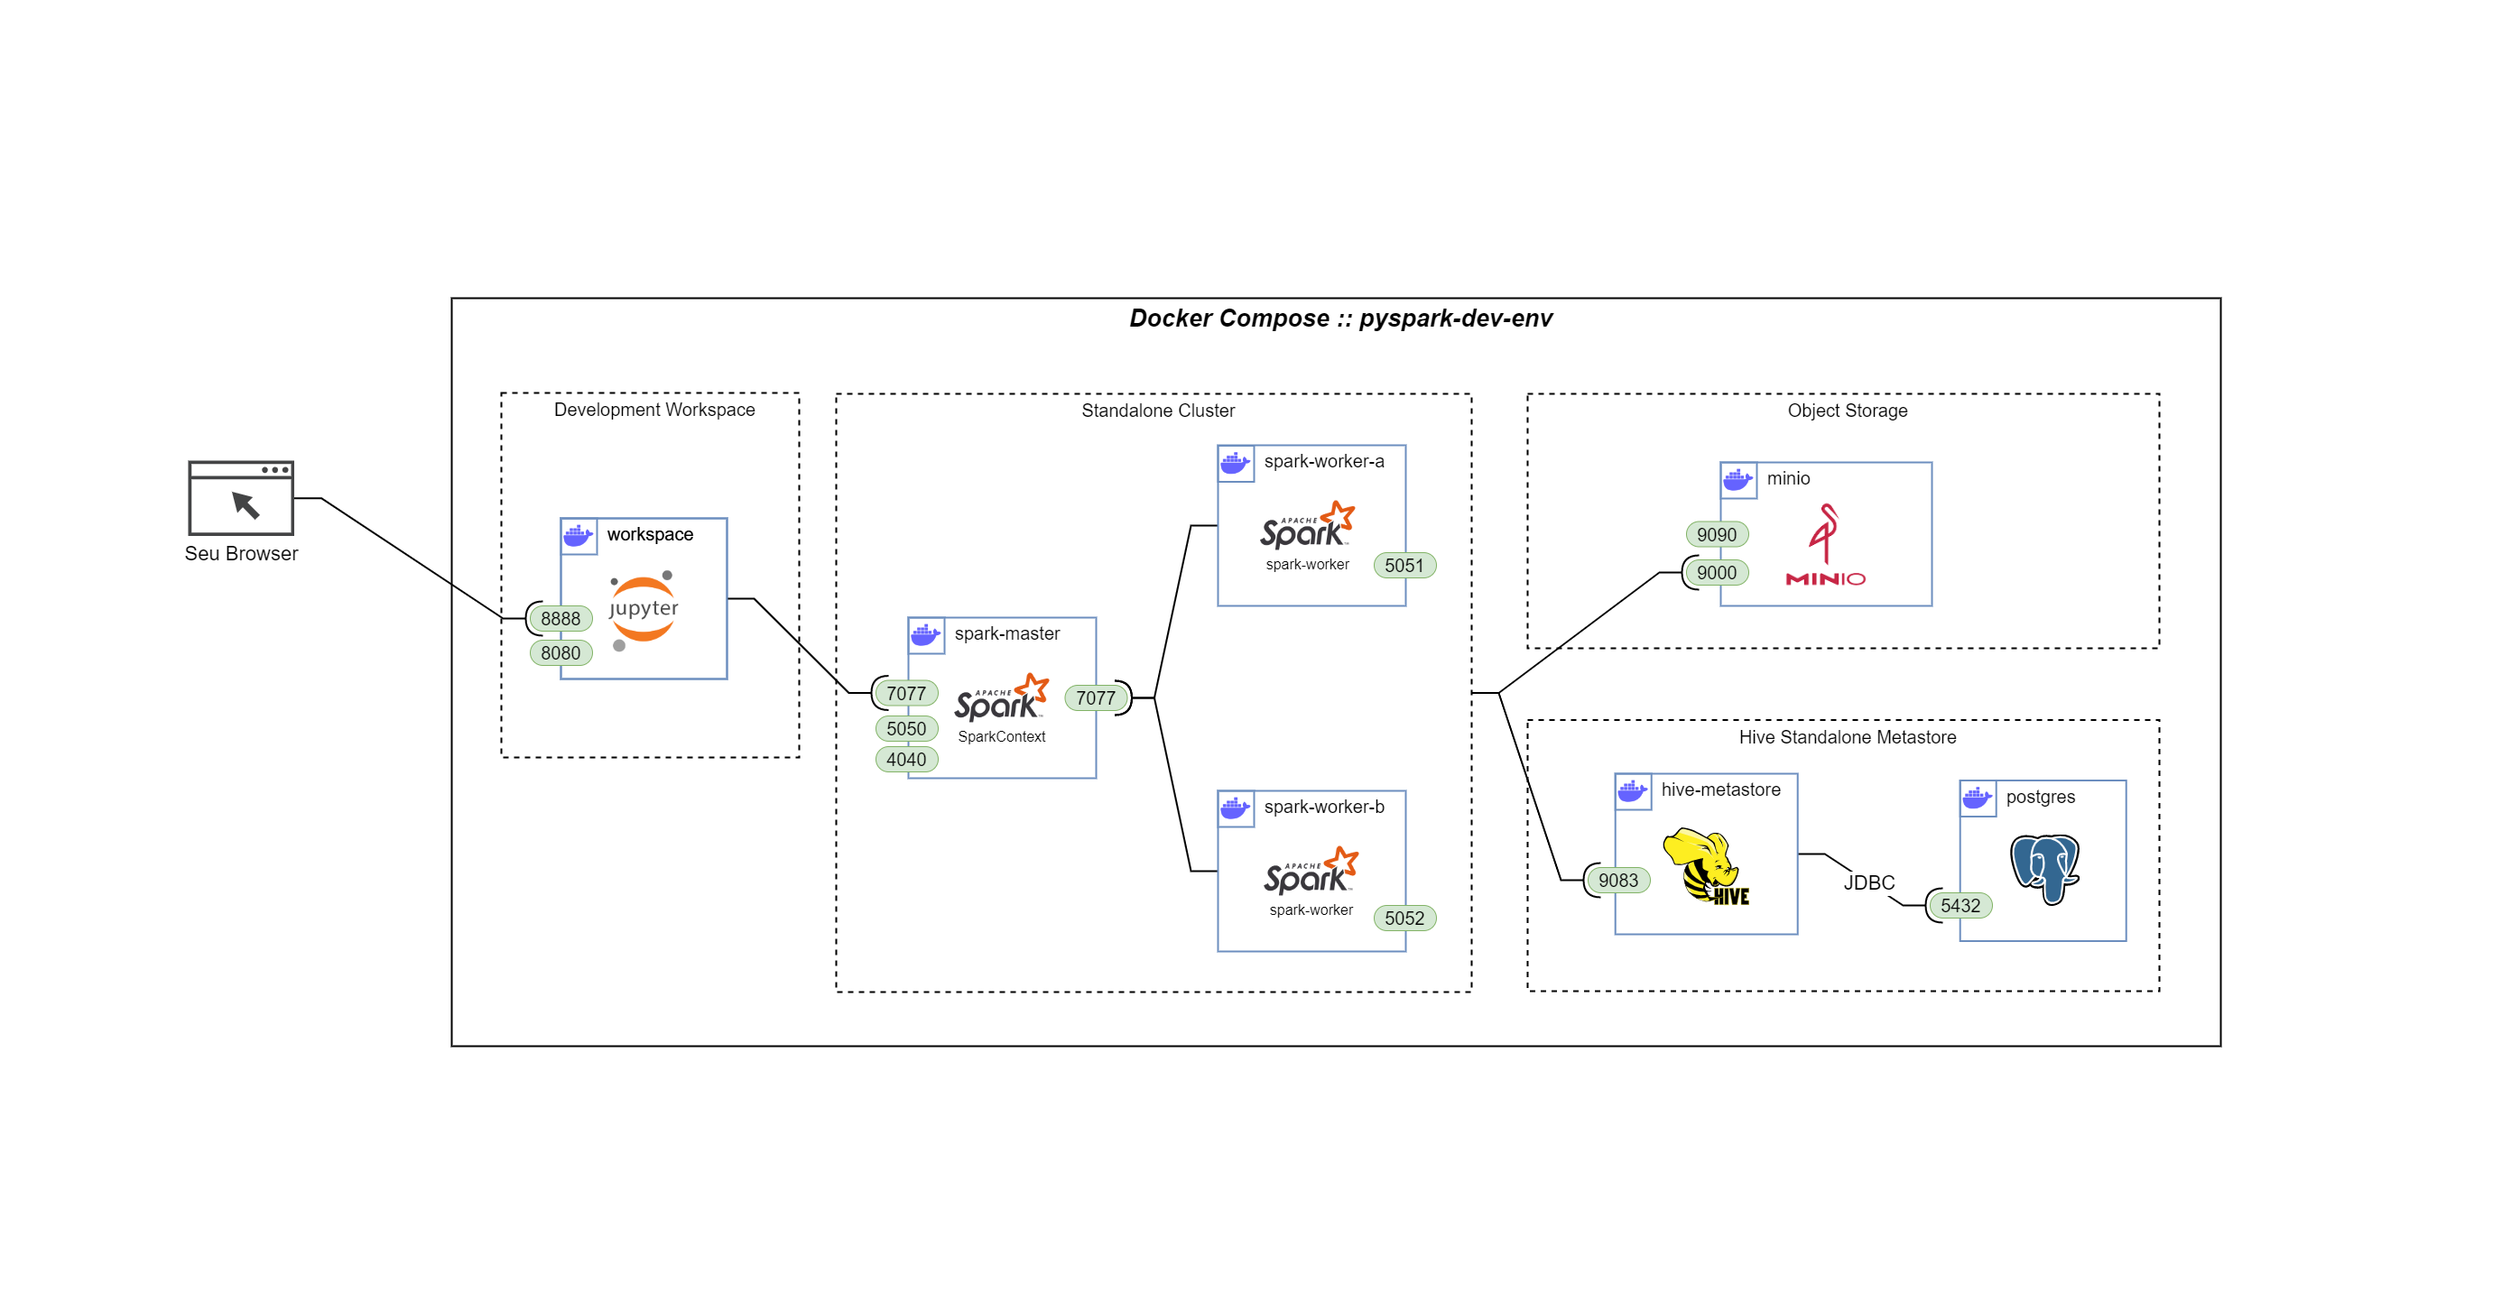
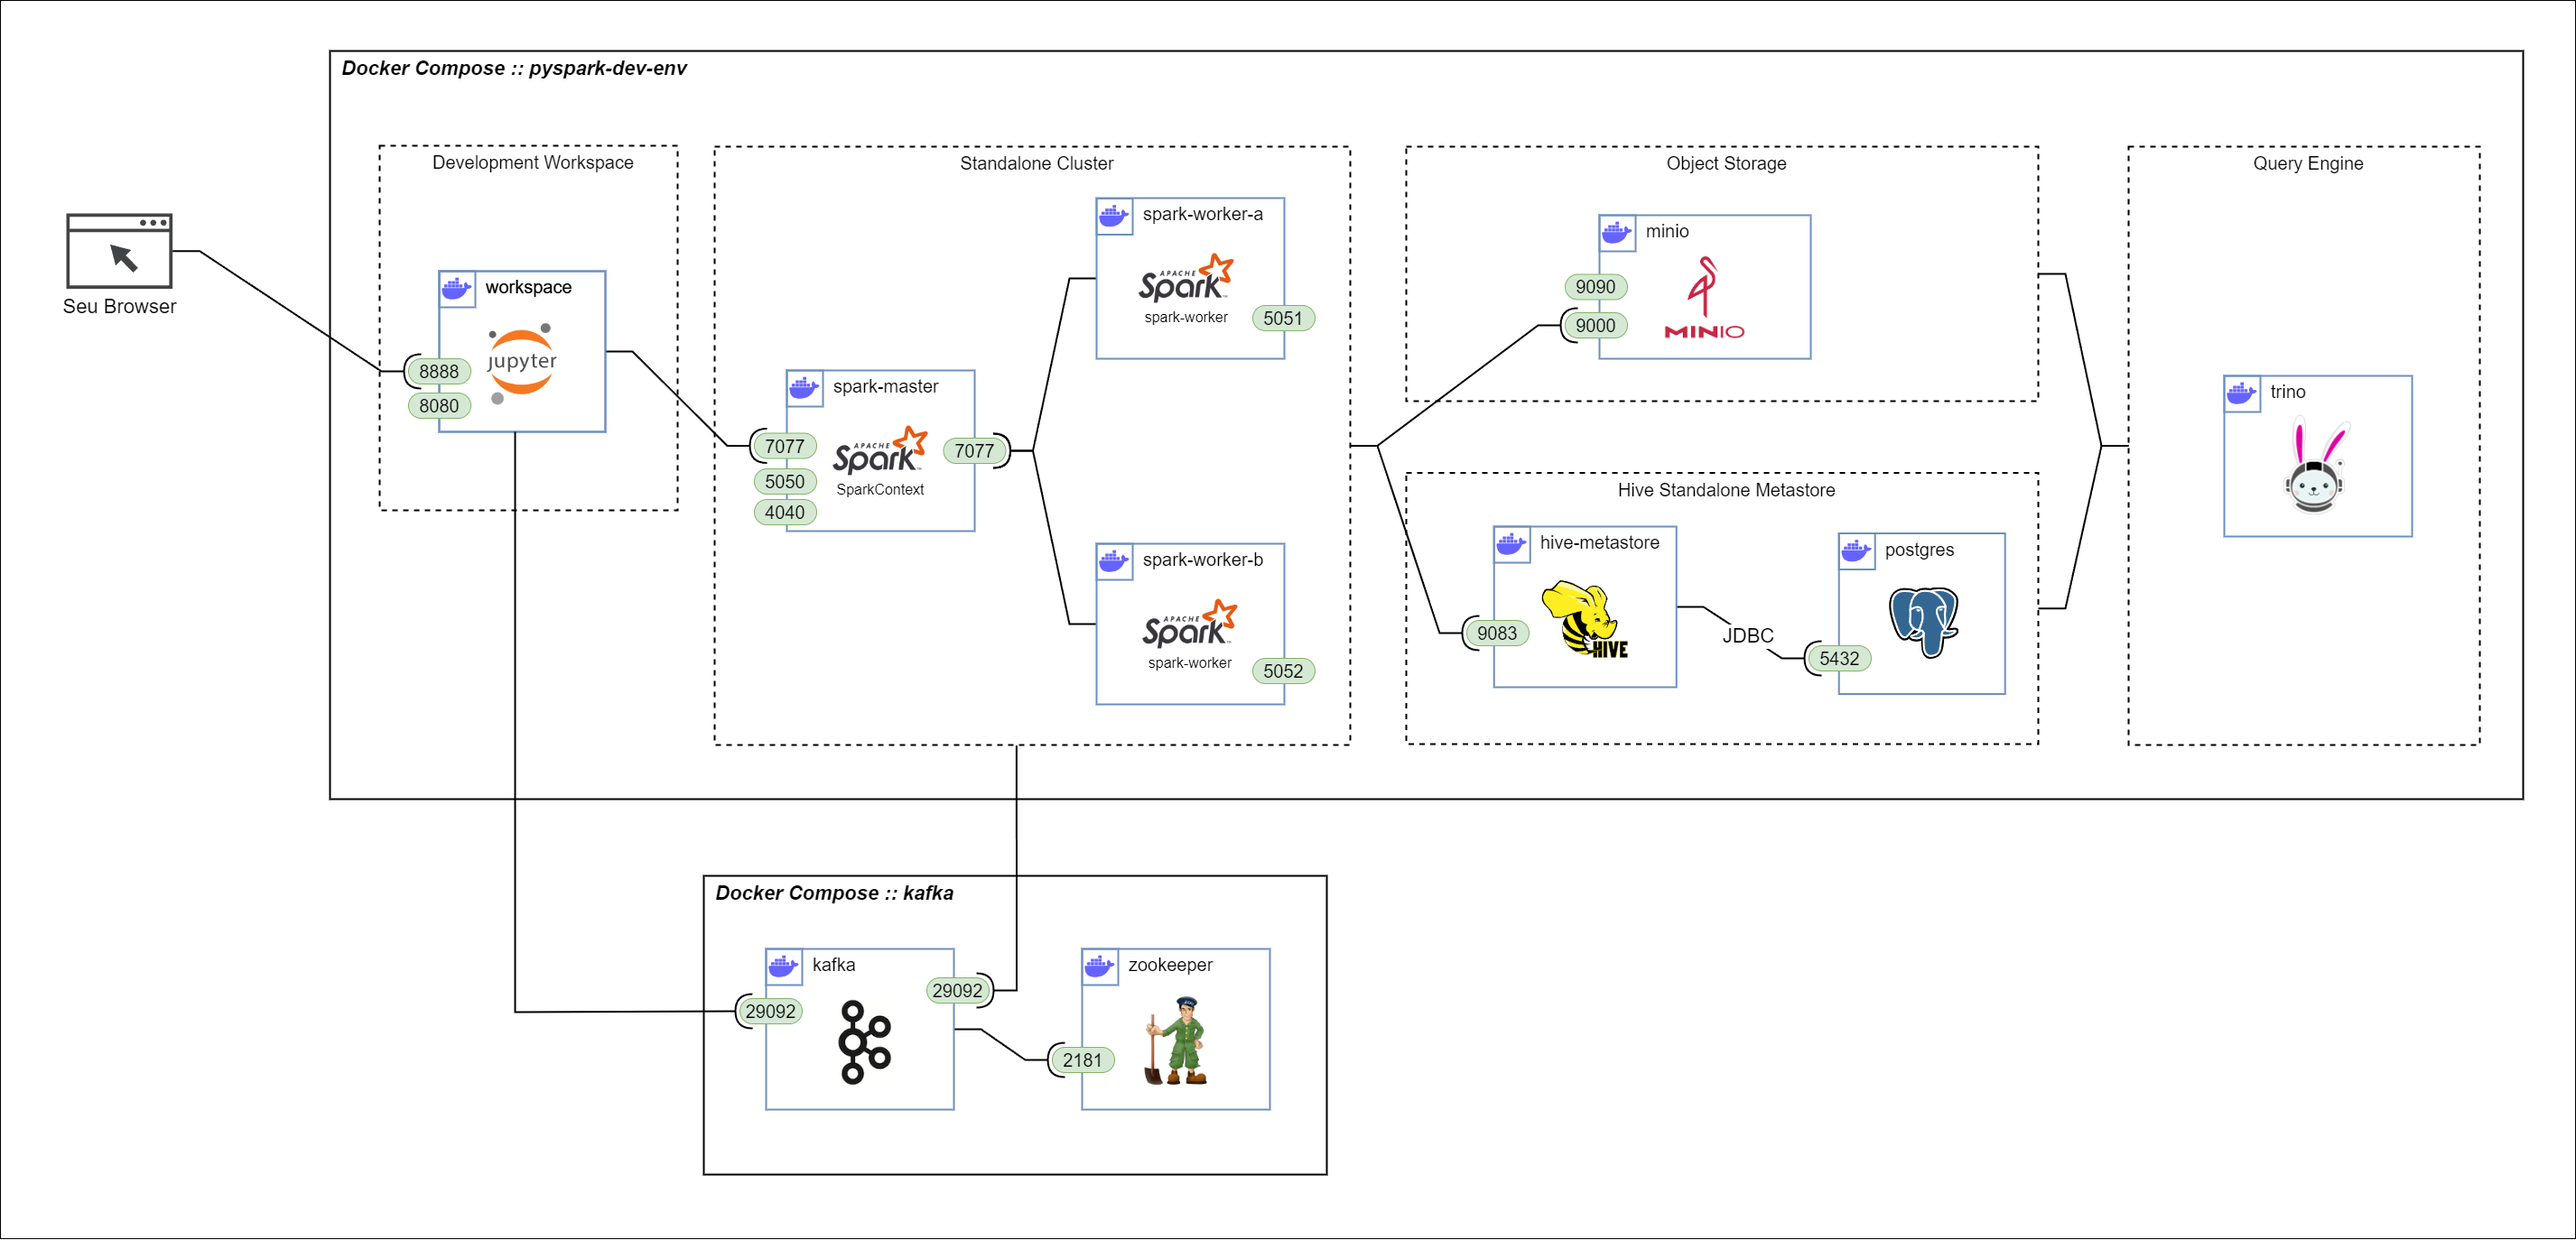
readme

diff --git a/README.md b/README.md
@@ -1,6 +1,7 @@
-## Ambiente de desenvolvimento interativo de Apache Spark
+![alt text](drawio/pastabricks.png "Title")
+Ou pastabricks, se preferir, é um ambiente de desenvolvimento interativo que criei para praticar PySpark
 
-Montado utilizando Docker Compose, Apache Spark, MinIO, Hive, PostgresSQL e Jupyter
+Montado utilizando Docker Compose ele estrutura um Jupyter Lab, Cluster Spark, MinIO object storage, Hive Metastore, Trino e de quebra vem um Kafka pra simular eventos/streaming.
 
 Requisitos:
 - Docker Desktop
@@ -10,23 +11,34 @@ Para utilizá-lo basta clonar o repositório e executar no diretório principal 
 
 > docker compose up -d
 
+<sub><sup>o docker vai buildar as imagens sozinho, recomendo uma conexão de internet boa e estável</sup></sub>
+
 Acesse os logs do workspace para obter o link do Jupyter Lab.
 
 > docker logs pyspark-dev-env-workspace-1
 
+<sub><sup>(se preferir pode ver nos logs do Docker Desktop também)</sup></sub>
+
 Clique no link _http://127.0.0.1:8888/lab?token=<token_gigante_super_seguro>_
+
+Para iniciar o broker kafka você deve ir até o diretório kafka desse repositório e executar:
+
+> docker compose up -d
 
 ### O que é criado?
 
 ![alt text](drawio/analytics-lab.png "Title")
 
-O template docker-compose.yml cria uma série de containers, entre eles:
+Os templates docker-compose.yml criam uma série de containers, entre eles:
 
 #### Workspace
-Um cliente Jupyter para sessões de desenvolvimento interativo com:
-+ Diretório 'work' para persistir scripts e notebooks criados;
+Um cliente Jupyter Lab para sessões de desenvolvimento interativo com:
++ Diretório _work_ para persistir scripts e notebooks criados;
+<sub><sup>(e ainda tem uns scripts que usei pra testar as funcionalidades incluindo um producer kafka para gerar eventos aleatórios!)</sup></sub>
 + spark-defaults.conf para facilitar configuração das SparkSessions no cluster;
-+ NOVO! Extensão jupyter_sql_editor instalada para utilização dos comandos magic %sparksql e %trino 
+<sub><sup>(criar a spark session nunca foi tão fácil!)</sup></sub>
++ Extensão jupyter_sql_editor instalada para utilização dos comandos magic %sparksql e %trino 
+<sub><sup>(ainda meio instável e sem auto-completion mas funciona, juro!)</sup></sub>
 
 #### MinIO
 Uma instância do MinIO, serviço de object storage que emula o funcionamento de um S3 com:
@@ -42,17 +54,17 @@ Um cluster Spark para processamento dos workloads contendo:
 + Comunicação com MinIO através da porta 9000
 
 #### Hive Standalone Metastore
-Uma instância do Hive Standalone Metastore utilizando PostgreSQL no back-end para permitir a criação de tabelas externas.
+Uma instância do Hive Standalone Metastore utilizando PostgreSQL no back-end para permitir a persistencia de metadados.
 + Diretório _mount/postgres_ para persistir tabelas entre sessões de desenvolvimento
 + Comunicação com o cluster Spark através do Thrift na porta 9083
 + Comunicação com o PostgresSQL através de JDBC na porta 5432
 
-#### NOVO! Trino
+#### Trino
 Uma instancia unica de Trino para servir de motor de query. Já integrado com Hive Metastore e MinIO
-+ Catálogo Hive já configurado. Toda tabela criada via PySpark será acessível no Trino
++ Catálogo _Hive_ já configurado. Toda tabela criada via PySpark será acessível no Trino
 + Serviço disponível na porta padrão 8080
 
-#### NOVO! Kafka
+#### Kafka
 Docker compose de uma instancia zookeper + single-node de kafka para criação de um stream de dados fictício com um producer em Python.
 + Utiliza a mesma network criado pelo compose do PySpark.
 + Script de kafka-producer disponível utilizando Faker para gerar eventos aleatórios no kafka
